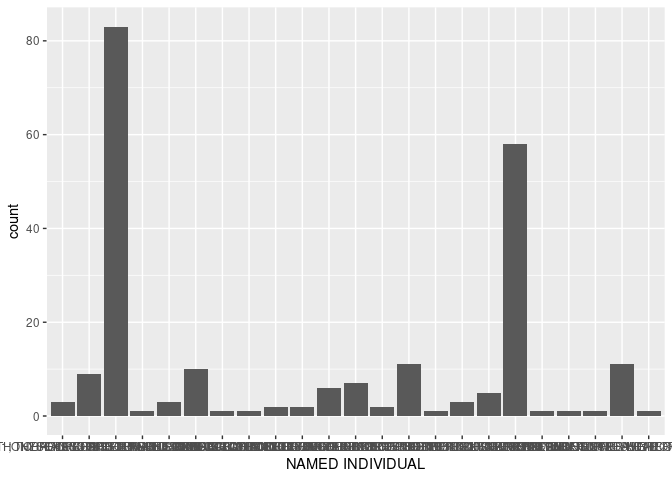
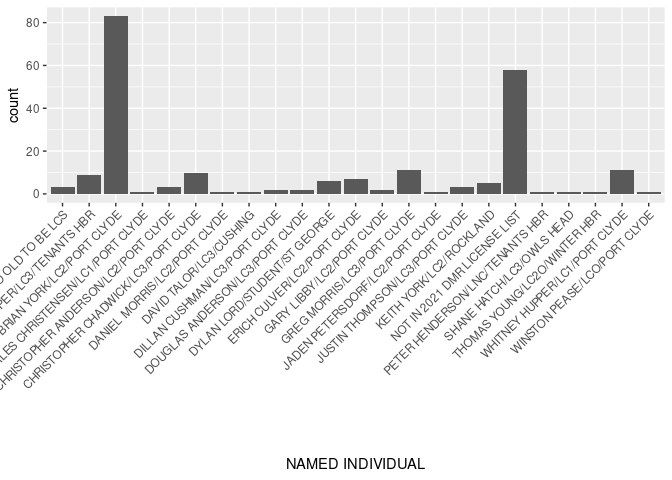
Edit angle of x axis text

diff --git a/proposal/proposal.md b/proposal/proposal.md
@@ -155,7 +155,8 @@ glimpse(true_lobsters)
 
 ``` r
 ggplot(data = true_lobsters, mapping = aes(x = `NAMED INDIVIDUAL`)) +
-  geom_bar() 
+  geom_bar() +
+theme(axis.text.x = element_text(angle = 45, hjust = 1))
 ```
 
 ![](proposal_files/figure-gfm/prelim_vis_testing-1.png)<!-- -->
